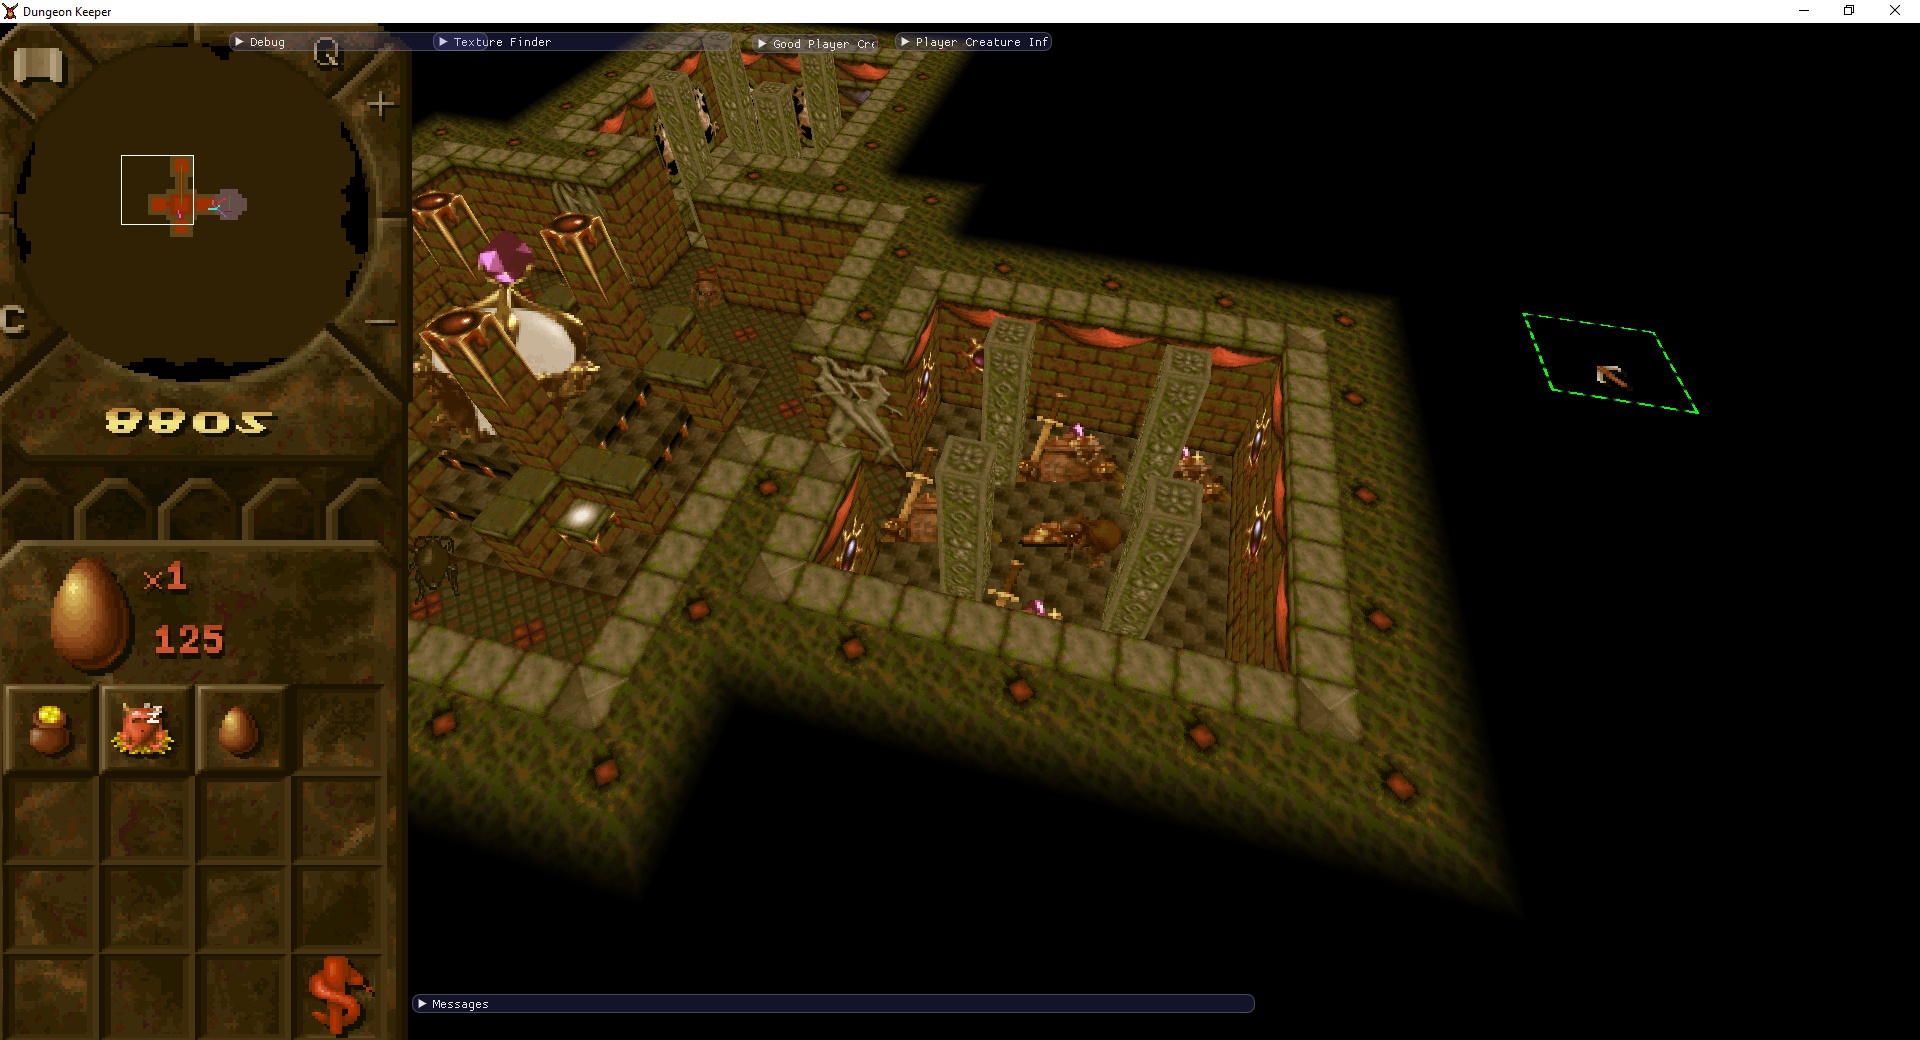
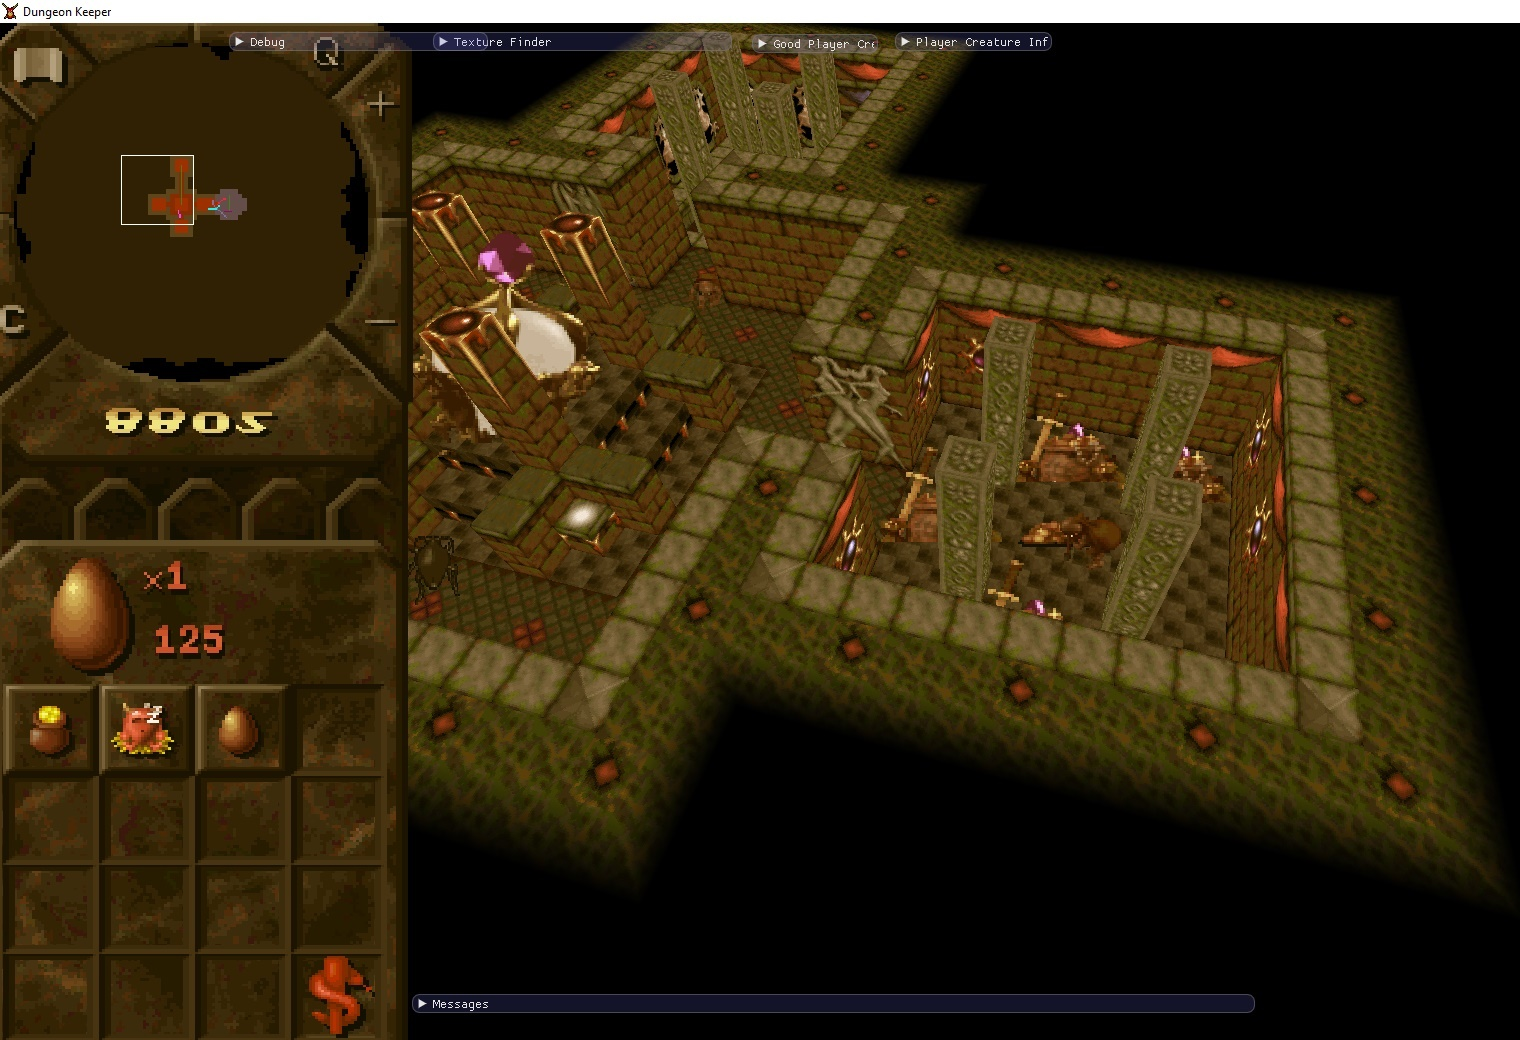
final page

diff --git a/project4.html b/project4.html
@@ -43,65 +43,46 @@
 			</div>
 			<div class="container">
 			<h2 id="welcome">
-				<a href="index.html">Back to Home.</a>
+				<a class="link" href="index.html">Back to Home.</a>
 			</h2>
 			<section>
-				<h2 id="skills">Project1 Description</h2>
+				<h2 id="skills">The Morph</h2>
+				
+				<h3><a class="link" href="https://github.com/Themperror/ThempX">Link to the Github.</a></h3>
 				<section class="sub-card">
 					<h3>Type</h3>
 					<p class="tab">Game</p>
 					<h3>Language</h3>
 					<p class="tab">C++</p>
 					<h3>API's</h3>
-					<p class="tab">D3D11</p>
+					<p class="tab">D3D9, DirectSound, DirectInput</p>
 					<h3>Libraries</h3>
-					<p class="tab">None</p>
+					<p class="tab">NVIDIA Physx</p>
 					<h3>Comments</h3>
-					<p class="tab">Made from scratch.<br>Written tools to export images in .DDS (using DirectXTex) and models in my own custom format (Using Assimp)</p>
+					<p class="tab">My first C++ project, engine + game in one.</p>
 				</section>
-			</section>
-			
-			<section>
-				<h2 id="projects">Project 1</h2>
-				<p id="projects"> This is a project named project 1, this and that and this and that. </p>
 				
-				<p><br><br>Click on images to view the full version.</p>
+				<p id="projects"> As to show my improvement in terms of programming and to show more about myself, I decided to put this old project on my portfolio as well, It was made back in 2013 as a part of a two-man project on my previous education, Unity was usually everyones choice back then but I decided I wanted to expand my programming knowledge and took a leap by tackling C++. The programming and modeling was done by me, The texturing was done by a classmate of mine back then.</p>
+				<p id="projects"> The goal with this project was to create a game similar to DOOM and Duke Nukem 3D. </p>
+				<p id="projects"> Features were:<br>-Three types of enemies with movement,<br>-Basic Duke Nukem type of "search keycard, open keycard doors",<br>-Melee attacking (the character was a gunless mutant),<br>-Mesh Collision with baking through PhysX, <br>-Ingame editor mode(to place objects like tables and enemies), <br>-Throwing cubes with physics around (for fun).</p>
 				<div class="hcontainer">
-					<a target="_blank" href="./assets/images/monkey.gif">
-						<div class="imgcard">
-							<img src="./assets/images/monkey.gif">
+					<a target="_blank" href="./assets/images/morph1.jpg">
+						<div class="imgcardbig">
+							<img src="./assets/images/morph1.jpg">
+						</div>
+					</a>
+					<a target="_blank" href="./assets/images/morph2.jpg">
+						<div class="imgcardbig">
+							<img src="./assets/images/morph2.jpg">
+						</div>
+					</a>
+					<a target="_blank" href="./assets/images/morph3.jpg">
+						<div class="imgcardbig">
+							<img src="./assets/images/morph3.jpg">
 						</div>
 					</a>
 				</div>
-				<section class="sub-card">
-					<p>
-						This is a sub box to expand on some subject that I've gone over just ago
-					</p>
-					<h3><a class="link" href="Project1.html">Link to the github</a></h3>
-					<div class="hcontainer">
-						<a target="_blank" href="./assets/images/dragon.gif">
-							<div>
-								<img src="./assets/images/dragon.gif">
-							</div>
-						</a>
-						<a target="_blank" href="./assets/images/monkey.gif">
-							<div class="imgcard">
-								<img src="./assets/images/monkey.gif">
-							</div>
-						</a>
-						<a target="_blank" href="./assets/images/teapot.png">
-							<div class="imgcard">
-								<img src="./assets/images/teapot.png">
-							</div>
-						</a>
-					</div>
-					<div class="container">
-						<p>Fast 3D multi-threaded CPU rasterizer written in C++. It supports shaders, textures and more.</p>
-					</div>
-				</section>
-
-				
-			
+			</section>
 		</div>
 	</div>
 
@@ -131,7 +112,7 @@
 				x: 0,
 				y: 0,
 				z: 0,
-				vx: 0,
+				vy: 0,
 				rand : 0,
 				dead: true
 			});
@@ -152,7 +133,7 @@
 				if (p.dead) continue;
 
 				ctx.beginPath();
-				ctx.arc(p.x, p.y  + Math.sin(p.rand + t * 0.1) * 10, p.z, 0, Math.PI * 2);
+				ctx.arc(p.x, p.y, p.z, 0, Math.PI * 2);
 				ctx.fill();
 			}
 		}
@@ -173,16 +154,16 @@
 			if (p === null) return;
 
 			particles[p].dead = false;
-			particles[p].x = -10;
-			particles[p].y = 5 + Math.random() * (canvas.height - 10);
+			particles[p].x = Math.random() * (canvas.width);
+			particles[p].y = -2;
 			particles[p].z = (Math.random() + 0.5) * 1.0;
-			particles[p].vx = (Math.random() + 0.2) * 5.0;
+			particles[p].vy = (Math.random() + 0.5) * 8.0;
 			particles[p].rand = Math.random();
 			particles[p].wave = Math.random() >= 0.5;
 		}
 		function update()
 		{
-			var t = time++ % 35;
+			var t = time++ % 25;
 			if(t == 0 )
 			{	
 				emit();
@@ -193,7 +174,8 @@
 			{
 				var p = particles[i];
 				if (p.dead) continue;
-				p.x += p.vx;
+				p.vy -= 0.15;
+				p.y += p.vy;
 
 				if (p.x > canvas.width+2 || p.y > canvas.height+2)
 					p.dead = true;

diff --git a/project3.html b/project3.html
@@ -46,62 +46,48 @@
 				<a href="index.html">Back to Home.</a>
 			</h2>
 			<section>
-				<h2 id="skills">Project1 Description</h2>
+				<h2 id="skills">The Automatician</h2>
+				<h3><a class="link" href="https://store.steampowered.com/app/657700/The_Automatician/">Link to the Steam page.</a></h3>
 				<section class="sub-card">
 					<h3>Type</h3>
 					<p class="tab">Game</p>
 					<h3>Language</h3>
-					<p class="tab">C++</p>
-					<h3>API's</h3>
-					<p class="tab">D3D11</p>
-					<h3>Libraries</h3>
-					<p class="tab">None</p>
-					<h3>Comments</h3>
-					<p class="tab">Made from scratch.<br>Written tools to export images in .DDS (using DirectXTex) and models in my own custom format (Using Assimp)</p>
+					<p class="tab">Visual Scripting, C++</p>
+					<h3>Engine</h3>
+					<p class="tab">Unreal Engine 4</p>
 				</section>
-			</section>
-			
-			<section>
-				<h2 id="projects">Project 1</h2>
-				<p id="projects"> This is a project named project 1, this and that and this and that. </p>
 				
-				<p><br><br>Click on images to view the full version.</p>
+				<p id="projects"> This was a part of my 3rd year, a student project that had been running for a while, I came in as additional help to finish it and get it ready for release. </p>
+				<p id="projects"> <br>Most of my work went into finishing off the puzzle system and getting them playable and working my way through the list of bugs to fix, as well as implement level streaming and a bit of light optimisations.</p>
+				<p id="projects"> As can be seen on the screenshots and trailer, the puzzles existed out of a hex grid, this was done by using a modified version of <a href=" https://www.redblobgames.com/grids/hexagons/#coordinates-cube">Cube Coordinates</a>, where a 4th dimension was added to allow for layering. Which is the only real notable thing I can remember from the project, as there were not many other challenges at the time.</p>
+				
+				<p id="projects"> Other than directly working on the game I also mentored a designer who wished to learn to program, I did this through blueprints and explaining basic programming concepts to him, eventually he was able to implement several puzzles into the game by himself. </p>
+				
 				<div class="hcontainer">
-					<a target="_blank" href="./assets/images/monkey.gif">
-						<div class="imgcard">
-							<img src="./assets/images/monkey.gif">
+					<a target="_blank" href="./assets/images/a1.jpg">
+						<div class="imgcardbig">
+							<img src="./assets/images/a1.jpg">
+						</div>
+					</a>
+					<a target="_blank" href="./assets/images/a2.jpg">
+						<div class="imgcardbig">
+							<img src="./assets/images/a2.jpg">
 						</div>
 					</a>
 				</div>
-				<section class="sub-card">
-					<p>
-						This is a sub box to expand on some subject that I've gone over just ago
-					</p>
-					<h3><a class="link" href="Project1.html">Link to the github</a></h3>
-					<div class="hcontainer">
-						<a target="_blank" href="./assets/images/dragon.gif">
-							<div>
-								<img src="./assets/images/dragon.gif">
-							</div>
-						</a>
-						<a target="_blank" href="./assets/images/monkey.gif">
-							<div class="imgcard">
-								<img src="./assets/images/monkey.gif">
-							</div>
-						</a>
-						<a target="_blank" href="./assets/images/teapot.png">
-							<div class="imgcard">
-								<img src="./assets/images/teapot.png">
-							</div>
-						</a>
-					</div>
-					<div class="container">
-						<p>Fast 3D multi-threaded CPU rasterizer written in C++. It supports shaders, textures and more.</p>
-					</div>
-				</section>
-
-				
-			
+				<div class="hcontainer">
+					<a target="_blank" href="./assets/images/a3.jpg">
+						<div class="imgcardbig">
+							<img src="./assets/images/a3.jpg">
+						</div>
+					</a>
+					<a target="_blank" href="./assets/images/a4.jpg">
+						<div class="imgcardbig">
+							<img src="./assets/images/a4.jpg">
+						</div>
+					</a>
+				</div>
+			</section>
 		</div>
 	</div>
 

diff --git a/project2.html b/project2.html
@@ -47,6 +47,7 @@
 			</h2>
 			<section>
 				<h2 id="skills">Dungeon Keeper: Remake</h2>
+				<h3><a class="link" href="https://github.com/Themperror/Dungeon-Keeper-Remake">Link to the Github.</a></h3>
 				<section class="sub-card">
 					<h3>Type</h3>
 					<p class="tab">Game</p>
@@ -130,6 +131,13 @@
 					</div>
 				</a>
 				<p id="projects"><br>There's lots more that went on during this project, like parsing and running level scripts, the reverse engineering of a lot of files, playing sounds, or how the actual level is built, textured and updated, and much more, but I don't want this page to result in several dozens of megabytes so if you're curious to know more, feel free to ask me or look at the source code which can be found by using the github link at the top of this page.<br><br></p>
+				
+				<a target="_blank" href="./assets/images/DKGame.jpg">
+					<div class="fullimage">
+						<img src="./assets/images/DKGame.jpg">
+					</div>
+				</a>
+					
 				</section>
 		</div>
 	</div>

diff --git a/assets/main.css b/assets/main.css
@@ -42,7 +42,6 @@ body {
 	overflow: hidden;
 }
 .fullimage {
-	display: flex;
 	align-items: center;
 	justify-content: center;
 	margin: 6px;
